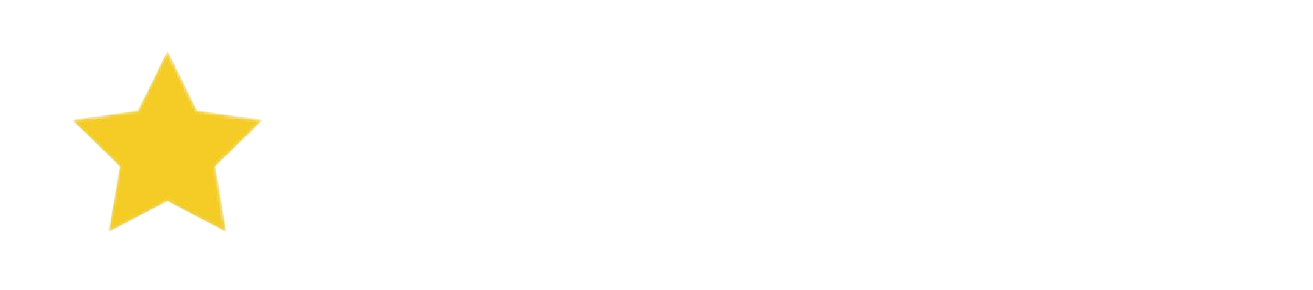
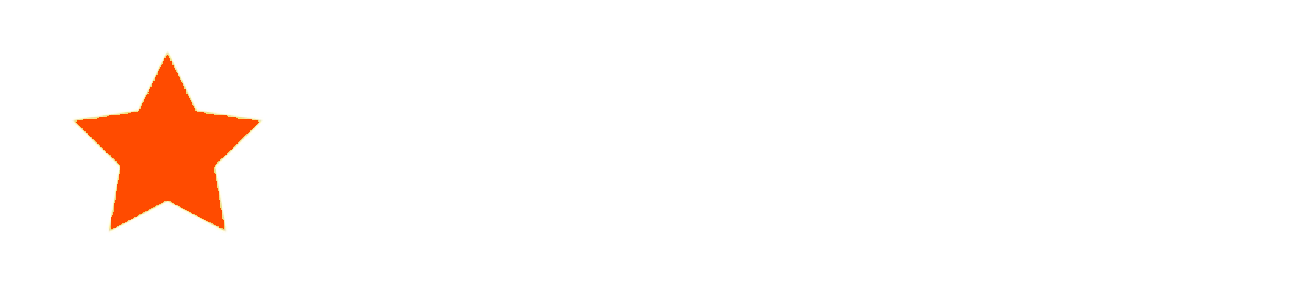
Made UI changes to

Changed region(s): [[0.0625, 0.1862, 0.2186, 0.7759]]

diff --git a/RicksStaffApp/Properties/Resources.Designer.cs b/RicksStaffApp/Properties/Resources.Designer.cs
@@ -223,6 +223,16 @@ namespace RicksStaffApp.Properties {
         /// <summary>
         ///   Looks up a localized resource of type System.Drawing.Bitmap.
         /// </summary>
+        internal static System.Drawing.Bitmap NoStars {
+            get {
+                object obj = ResourceManager.GetObject("NoStars", resourceCulture);
+                return ((System.Drawing.Bitmap)(obj));
+            }
+        }
+        
+        /// <summary>
+        ///   Looks up a localized resource of type System.Drawing.Bitmap.
+        /// </summary>
         internal static System.Drawing.Bitmap Up_Arrow {
             get {
                 object obj = ResourceManager.GetObject("Up Arrow", resourceCulture);

diff --git a/RicksStaffApp/UIHelper.cs b/RicksStaffApp/UIHelper.cs
@@ -177,8 +177,8 @@ namespace RicksStaffApp
                     starsImage = Properties.Resources.Half_Star;
                     //starColor = RatingOne;
                     break;
-                case float r when r < 0.5 && r >= 0:
-                    starsImage = Properties.Resources.No_Stars;
+                case float r when r < 0.5:
+                    starsImage = Properties.Resources.NoStars;
                     //starColor = RatingZero;
                     break;
                 default:
